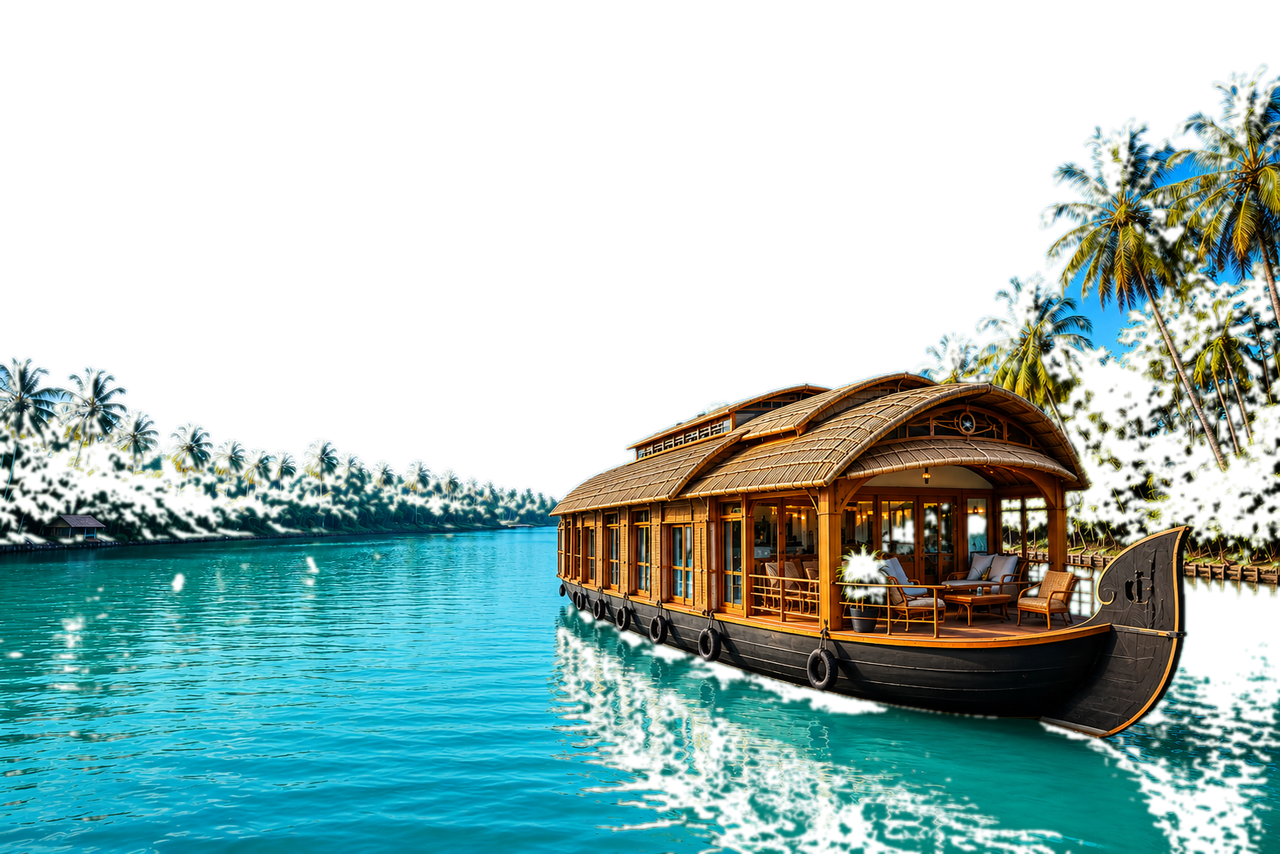
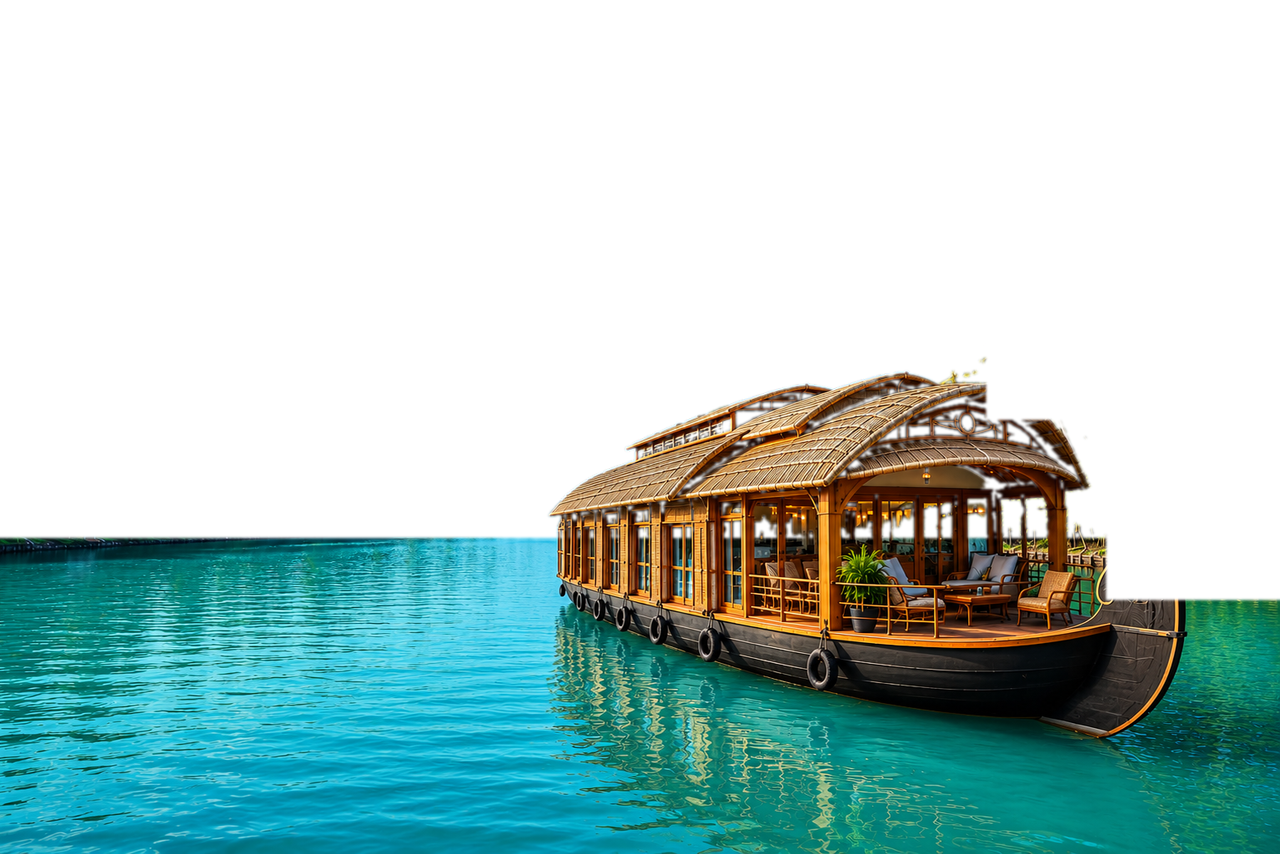
Keep trees out of the float layer; add drifting water shimmer
- Rebuild hero-boat.png so the floating layer is boat + water ONLY:
  above the waterline keep just warm boat pixels and clear the
  residual palm fronds / right-bank the green key had missed, so no
  part of the treeline moves with the float
- Add a subtle soft-light water shimmer (two slow drifting streak
  layers, masked to the water surface) for gentle water movement
- Hide the shimmer on reduced-motion and below 1024px

Claude-Session: session_015tLgdssnuXee4mtgGrjdLZ

diff --git a/redesign roxy/assets/css/home.css b/redesign roxy/assets/css/home.css
@@ -287,6 +287,31 @@ ul{margin:0;padding:0;list-style:none}
 @media (prefers-reduced-motion:reduce){
   .hero__boat{animation:none}
 }
+/* --- water surface shimmer : soft light streaks drifting on the water --- */
+.hero__water{position:absolute;left:0;right:0;top:58%;bottom:0;z-index:5;
+  pointer-events:none;overflow:hidden;
+  -webkit-mask-image:linear-gradient(to bottom,transparent 0,#000 34%);
+          mask-image:linear-gradient(to bottom,transparent 0,#000 34%)}
+.hero__water span{position:absolute;left:-25%;right:-25%;top:-20%;bottom:-20%;
+  mix-blend-mode:soft-light;opacity:.55;filter:blur(6px);
+  background:repeating-linear-gradient(96deg,
+    transparent 0 34px, rgba(255,255,255,.30) 46px, transparent 60px 96px)}
+.hero__water span:nth-child(1){animation:heroWaterA 11s linear infinite}
+.hero__water span:nth-child(2){opacity:.35;transform:scaleY(-1);
+  background:repeating-linear-gradient(84deg,
+    transparent 0 44px, rgba(255,255,255,.22) 58px, transparent 74px 120px);
+  animation:heroWaterB 16s linear infinite}
+@keyframes heroWaterA{
+  0%{transform:translate3d(0,0,0)}
+  100%{transform:translate3d(-96px,0,0)}
+}
+@keyframes heroWaterB{
+  0%{transform:scaleY(-1) translate3d(0,0,0)}
+  100%{transform:scaleY(-1) translate3d(120px,0,0)}
+}
+@media (prefers-reduced-motion:reduce){
+  .hero__water{display:none}
+}
   /* foreground is a sky-removed copy of the hero photo (same size/position as the bg),
      so the boat's real roofline + the treeline mask the letters pixel-perfectly -
      X and Y tuck cleanly behind the houseboat with no gap */
@@ -1439,7 +1464,7 @@ a.trust__cell:hover{background:var(--bg-2)}
        dropped (fg + top scrim off); the homepage keeps a big HOUSEBOAT word laid
        flat over the photo, internal pages stay word-free on small screens. --- */
 @media (max-width:1024px){
-  .hero__fg,.hero__scrim--top,.hero__boatwrap{display:none}
+  .hero__fg,.hero__scrim--top,.hero__boatwrap,.hero__water{display:none}
   .hero__stage{aspect-ratio:3/2}
   .hero__bg{background-size:cover;background-position:62% 58%}
   .hero__content{max-width:100%}

diff --git a/redesign roxy/index.html b/redesign roxy/index.html
@@ -258,6 +258,8 @@
         <div class="hero__boatwrap" aria-hidden="true">
           <div class="hero__boat" style="background-image:url('assets/images/hero-boat.png')"></div>
         </div>
+        <!-- gentle moving sheen over the water surface -->
+        <div class="hero__water" aria-hidden="true"><span></span><span></span></div>
         <!-- content legibility scrim -->
         <div class="hero__scrim hero__scrim--bot" aria-hidden="true"></div>
         <!-- foreground content -->
